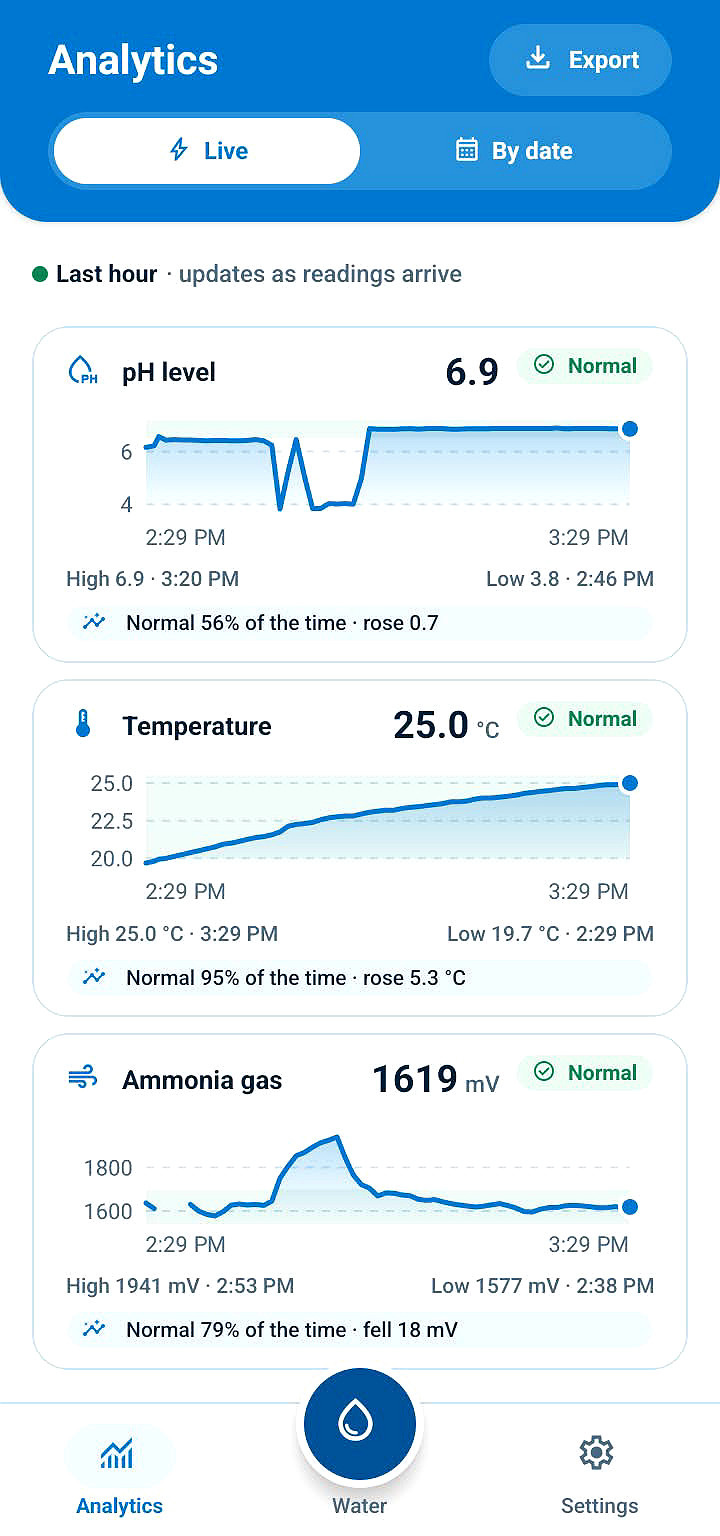
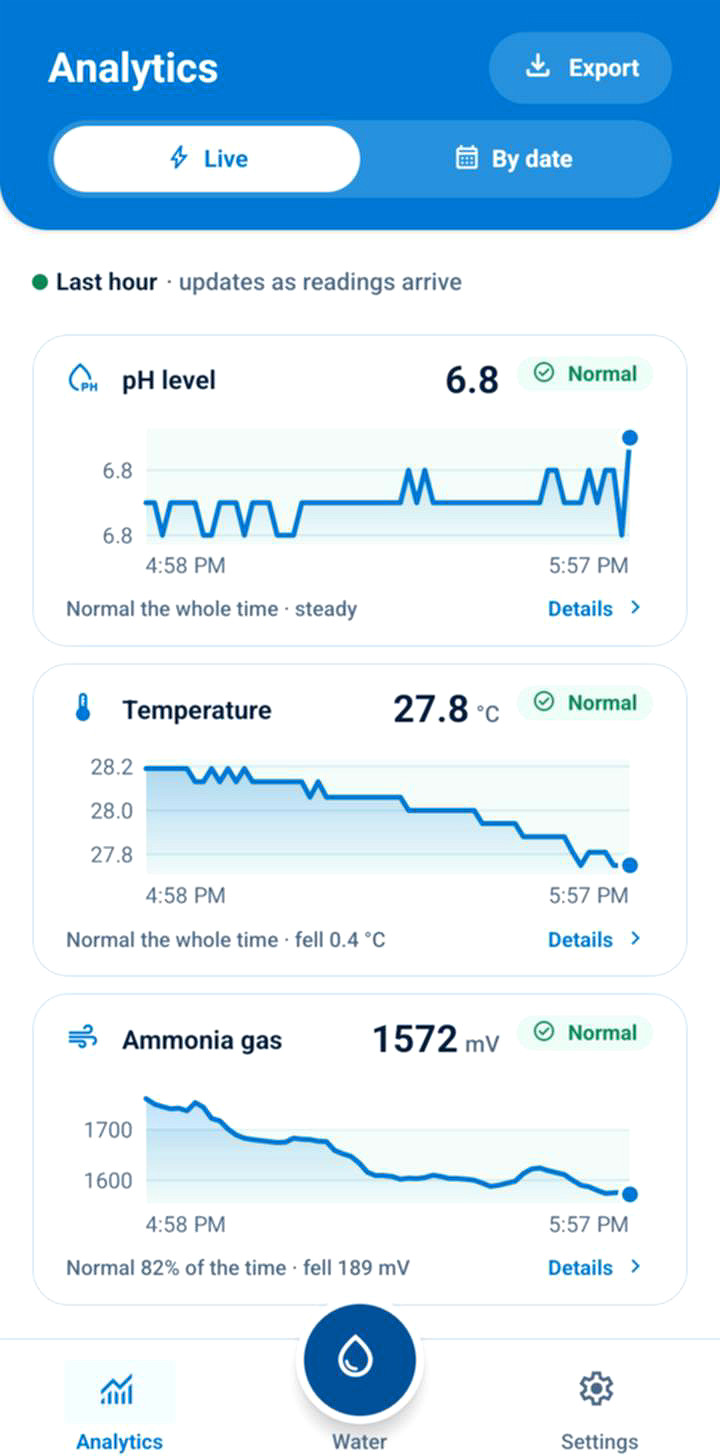
Website: eight screenshots of app 0.9.7 in the "A look inside" section
The user took new screenshots on their phone with app 0.9.7 (17 Nov
2026) and added screens the site did not show: the date picker's Month
choice, notifications, alert limits, pH calibration and export, next to
new Water, Analytics and Settings shots. Same treatment as the 16 Nov
set: status bar cropped, now the Android navigation bar too, light
sharpen; in Settings the name, email, phone number and avatar initials
are blurred / painted out (checked by eye). Eight screens fill two rows
of four on wide screens, two columns on tablets, and the sideways row on
phones as before. Image size attributes 720 x 1456.

diff --git a/website/src/content.ts b/website/src/content.ts
@@ -34,14 +34,21 @@ export const features = [
 ];
 
 /**
- * Real screenshots of the app (website/public/screens, 720 x 1536): the phone's status bar
- * cropped off, personal details blurred (Settings). Taken 16 Nov 2026 with app 0.9.2 - retake
- * Analytics with 0.9.3+ (no high / low lines since then).
+ * Real screenshots of the app (website/public/screens, 720 x 1456): the phone's status bar and
+ * Android's navigation bar cropped off, personal details blurred (Settings: name, email, phone
+ * number, avatar initials). Taken 17 Nov 2026 on the user's phone with app 0.9.7, processed with
+ * the same treatment as the 16 Nov set (crop, light sharpen). The Export shot shows its button
+ * running under the navigation bar - an app bug; retake it once that is fixed.
  */
 export const screens = [
-  { src: '/screens/water.jpg', caption: 'Live readings in plain words', alt: 'TubigTala Water screen: pH 6.9, temperature 25.0 °C and ammonia gas 1619 mV, each marked Normal on a coloured scale' },
-  { src: '/screens/analytics.jpg', caption: 'Charts for the last hour, any day or a week', alt: 'TubigTala Analytics screen: last-hour charts of pH, temperature and ammonia gas' },
-  { src: '/screens/settings.jpg', caption: 'SMS and phone alerts, your station, pH calibration', alt: 'TubigTala Settings screen: SMS alerts, the TubigTala Station shown Live, pH calibration and phone notifications (personal details blurred)' },
+  { src: '/screens/water.jpg', caption: 'Live readings in plain words', alt: 'TubigTala Water screen: pH 6.8, temperature 27.8 °C and ammonia gas 1572 mV, each marked Normal on a coloured scale' },
+  { src: '/screens/analytics.jpg', caption: 'Charts and insights for each sensor', alt: 'TubigTala Analytics, Live: last-hour charts of pH, temperature and ammonia gas, each with a summary line and Details' },
+  { src: '/screens/calendar.jpg', caption: 'Any day, a range or a whole month', alt: 'TubigTala date picker with Today, One day, Range and Month, the whole of November 2026 selected' },
+  { src: '/screens/notifications.jpg', caption: 'Every alert with its reading', alt: 'TubigTala Notifications: water a bit warm, station offline and back online, ammonia gas too high and a bit high, each with its reading' },
+  { src: '/screens/alert-limits.jpg', caption: 'Your own alert limits', alt: 'TubigTala Alert limits: normal and critical limits for pH and temperature, with a coloured bar and the newest reading' },
+  { src: '/screens/calibrate-ph.jpg', caption: 'pH calibration, step by step', alt: 'TubigTala Calibrate pH: put the probe in pH 7.00 buffer, live voltage 2,611 mV, settling' },
+  { src: '/screens/settings.jpg', caption: 'SMS, notifications and your station', alt: 'TubigTala Settings: SMS alerts, phone notifications, the TubigTala Station shown Live, pH calibration and alert limits (personal details blurred)' },
+  { src: '/screens/export.jpg', caption: 'Excel export, up to a month', alt: 'TubigTala Export to Excel: choose pH, temperature and ammonia gas and the dates, up to 31 days per file' },
 ] as const;
 
 /**

diff --git a/website/src/styles.css b/website/src/styles.css
@@ -143,7 +143,10 @@ h1 { font-size: clamp(36px, 6vw, 56px); letter-spacing: -0.02em; }
 .phone-screen img { display: block; width: 100%; height: auto; }
 .phone figcaption, figcaption { text-align: center; font-size: 12px; opacity: 0.75; margin-top: var(--space-2); }
 
-.shots { display: grid; grid-template-columns: repeat(3, 1fr); gap: var(--space-5); margin-top: var(--space-5); }
+/* Eight screens (app 0.9.7): two full rows of four on wide screens, two columns on tablets, and on
+   phones one row that scrolls sideways (below). */
+.shots { display: grid; grid-template-columns: repeat(4, 1fr); gap: var(--space-5); margin-top: var(--space-5); }
+@media (max-width: 1000px) and (min-width: 761px) { .shots { grid-template-columns: repeat(2, 1fr); } }
 .shots .phone { width: 100%; max-width: 270px; }
 .shots .phone-screen { border-width: 8px; border-radius: 30px; box-shadow: var(--shadow); }
 .shots figcaption { font-size: 14px; opacity: 0.85; margin-top: var(--space-3); }

diff --git a/website/src/App.tsx b/website/src/App.tsx
@@ -35,7 +35,7 @@ function Screenshot({ shot, caption, lazy = true }: { shot: (typeof screens)[num
   return (
     <figure className="phone">
       <div className="phone-screen">
-        <img src={shot.src} alt={shot.alt} width={720} height={1536} loading={lazy ? 'lazy' : 'eager'} decoding="async" />
+        <img src={shot.src} alt={shot.alt} width={720} height={1456} loading={lazy ? 'lazy' : 'eager'} decoding="async" />
       </div>
       <figcaption>{caption}</figcaption>
     </figure>
